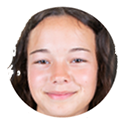
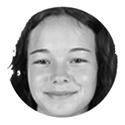
image change and formatting

diff --git a/demo4c/index.html b/demo4c/index.html
@@ -116,7 +116,7 @@ Push Notifications End - Removed for Now -->
 	overflow: hidden;
 	padding-bottom: 0%;
 	width: 720px;
-	background: #fff;
+	background: #8c2e36;
 } /* (img px height / img px width x 100) = padding-bottom % */
 #slideshow div {
 	position: absolute;
@@ -274,7 +274,7 @@ Push Notifications End - Removed for Now -->
 	background: #f2762e;
 }
 .gala-row {
-	background: #0E5239;
+	background: #446362;
 	display: flex;
 	align-items: center;
 	/* justify-content: center; */
@@ -349,6 +349,11 @@ Push Notifications End - Removed for Now -->
 	/* align-content: center; */
 	padding-top: 30px;
 	align-items: center;
+}
+	.sitter img {
+	/* padding-right: 25px; */
+	border: 6px solid #fff;
+	border-radius: 50%;
 }
 .sitter {
 	padding-right: 25px;
@@ -624,7 +629,7 @@ $.get("https://s3.amazonaws.com/website.alert/alert.txt")
         <div>Celebrate the timeless tale of Hansel & Gretel at our 7th Annual Fête des Fables Gala, benefiting the DCL Foundation. Enjoy fine dining and drinks, axe throwing, a classic silent auction, and much more.</div>
         <h4><a href="https://www.eventbrite.com/e/fete-des-fables-deep-in-the-forest-tickets-391228865067" target="_blank">Get Tickets</a></h4>
         <div class="toolkit-content">
-          <div class="sitter"><img src="sitter.png" alt=""></div>
+          <div class="sitter"><img src="baby-sitter.png" alt=""></div>
           <div>
             <h2>Babysitter’s Toolkit:</h2>
             <h5><a href="https://www.kanopy.com/en/dcl/" target="_blank">Kanopy Kids Videos</a></h5>
